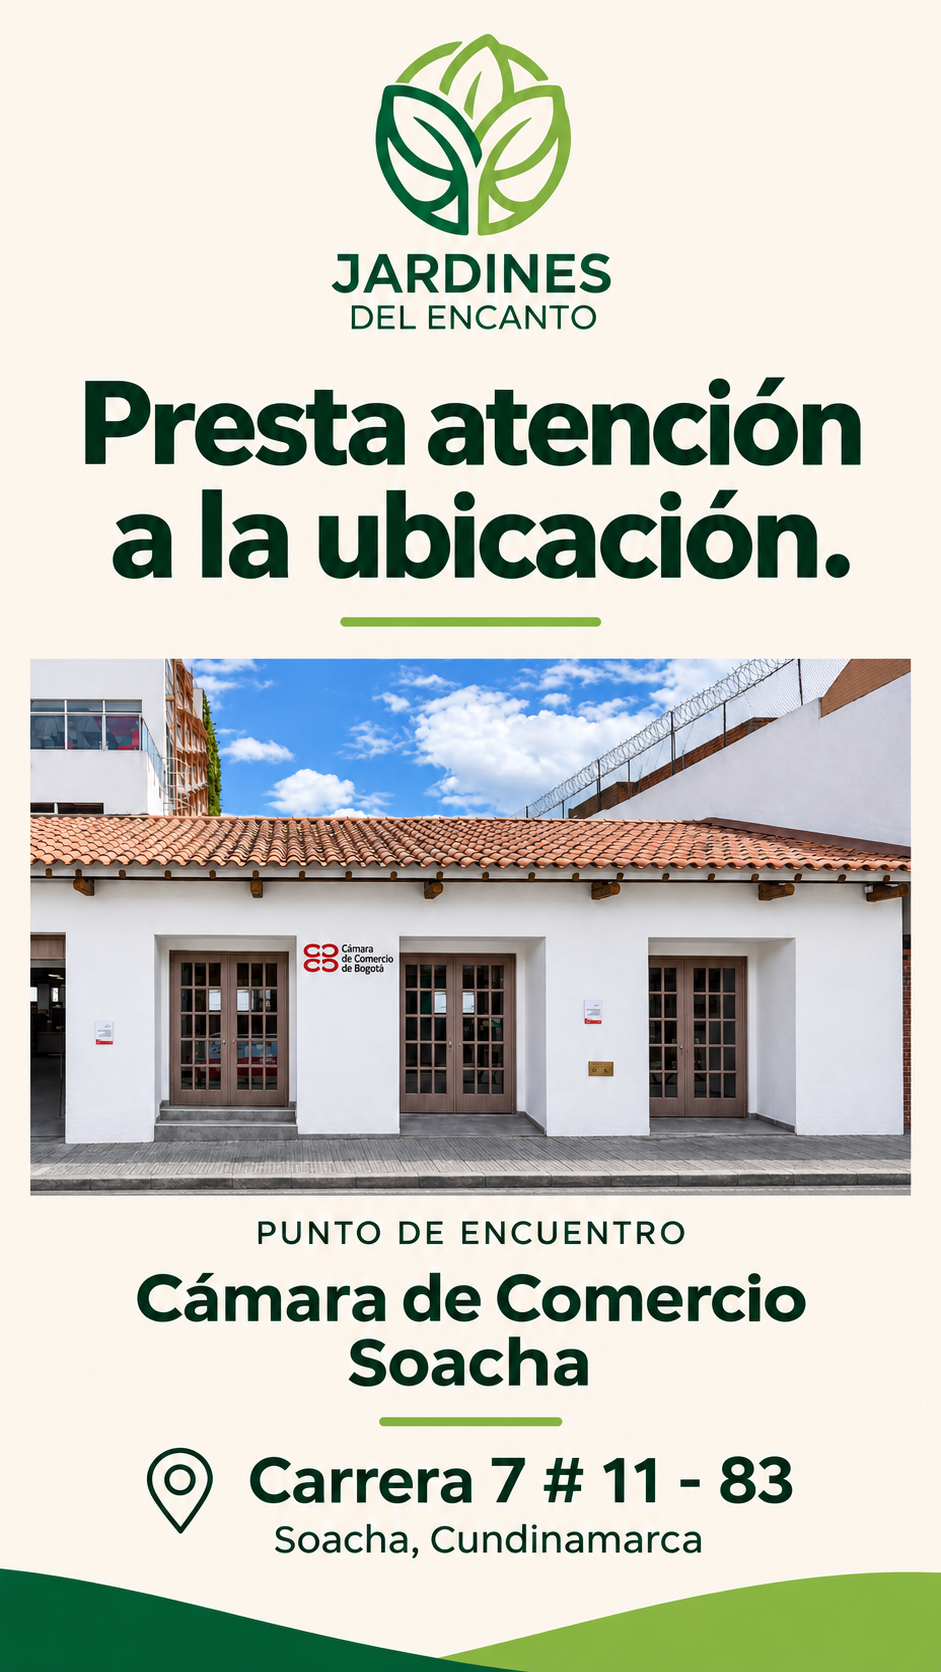
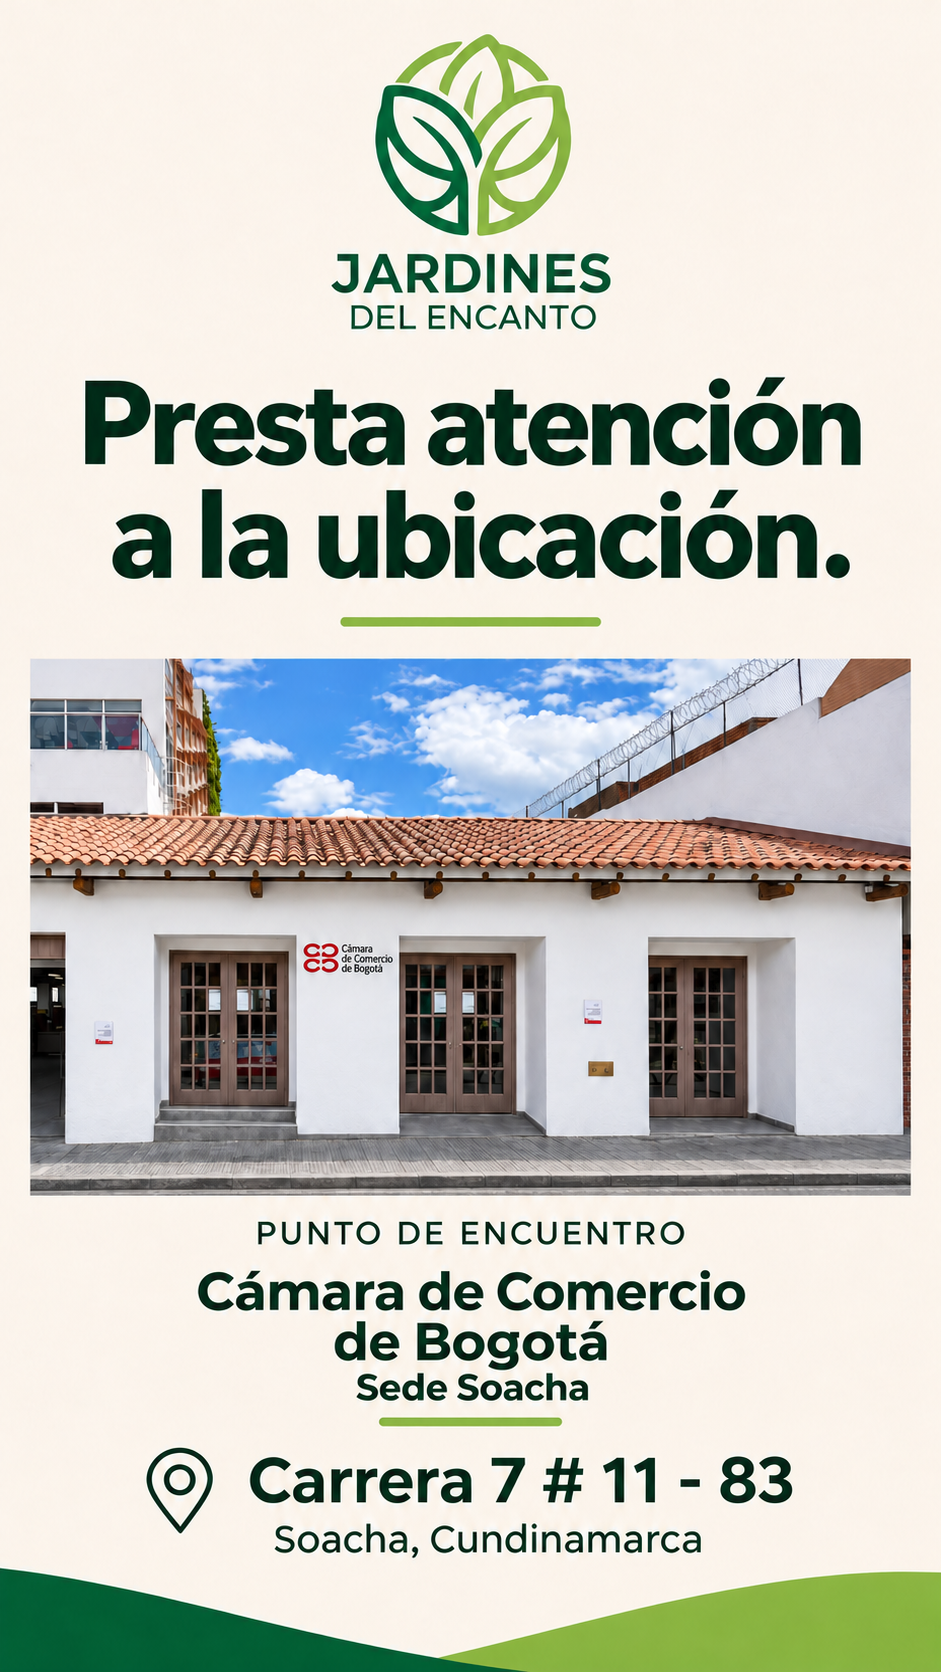
fix(campaigns): name Bogota chamber Soacha branch in location reminder

diff --git a/apps/api/tests/test_campaigns.py b/apps/api/tests/test_campaigns.py
@@ -176,6 +176,7 @@ def test_soacha_location_draft_keeps_original_campaigns_and_editable_map_link(au
     assert doc["image_id"] == "campaign-16"
     assert "Carrera 7 # 11 - 83 (Soacha)" in doc["body"]
     assert "ubicación" in doc["body"] and "SALIR" in doc["body"]
+    assert "Cámara de Comercio de Bogotá — Sede Soacha" in doc["body"]
     link = next(v for v in doc["variables"] if v["key"] == "enlace_ubicacion")
     assert link["kind"] == "link"
     query = parse_qs(urlsplit(link["example"]).query)

diff --git a/assets/campaign-drafts/2026-11/soacha-location/README.md b/assets/campaign-drafts/2026-11/soacha-location/README.md
@@ -7,6 +7,7 @@ The template remains a draft, not submitted to Meta, scheduled or sent to custom
 
 ## Content and provenance
 
+- Venue label corrected at the owner's request: `Cámara de Comercio de Bogotá — Sede Soacha`.
 - Address supplied by the owner: `Carrera 7 # 11 - 83 (Soacha)`.
 - The owner's 23-second voice note requests the venue photo, clear address and
   emphasis on paying attention to the location. No date or time was added.
@@ -16,7 +17,8 @@ The template remains a draft, not submitted to Meta, scheduled or sent to custom
 - `apps/api/app/campaigns/assets/campaign-16.png` is the vertical 941 × 1672
   artwork. Its project logo is reference-guided from the approved supplied
   artwork, not a claim of pixel-identical SVG composition.
-- `poster-prompt.txt` records the built-in generation prompt. `manifest.json`
+- `poster-prompt.txt` records the built-in generation prompt;
+  `venue-label-edit-prompt.txt` records the later focused institution-name edit. `manifest.json`
   records source and output hashes. No institution endorsement is implied.
 
 ## Editable CRM draft
